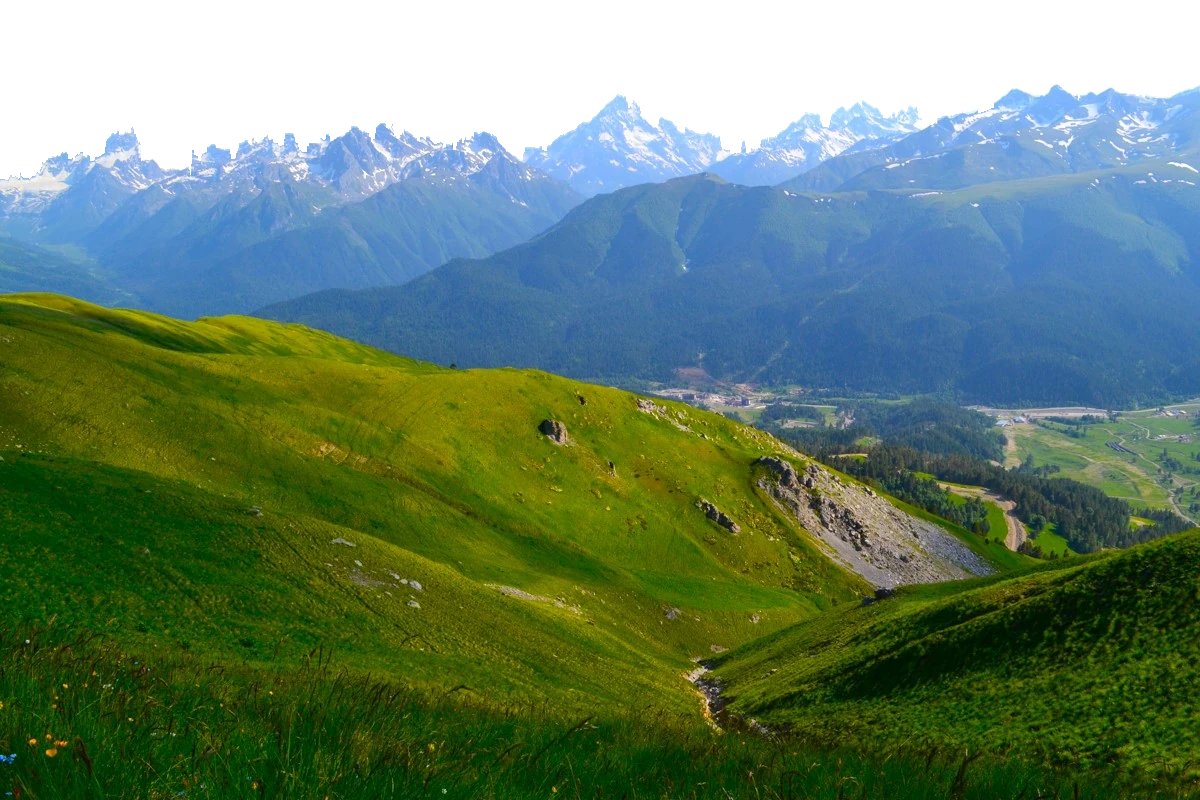
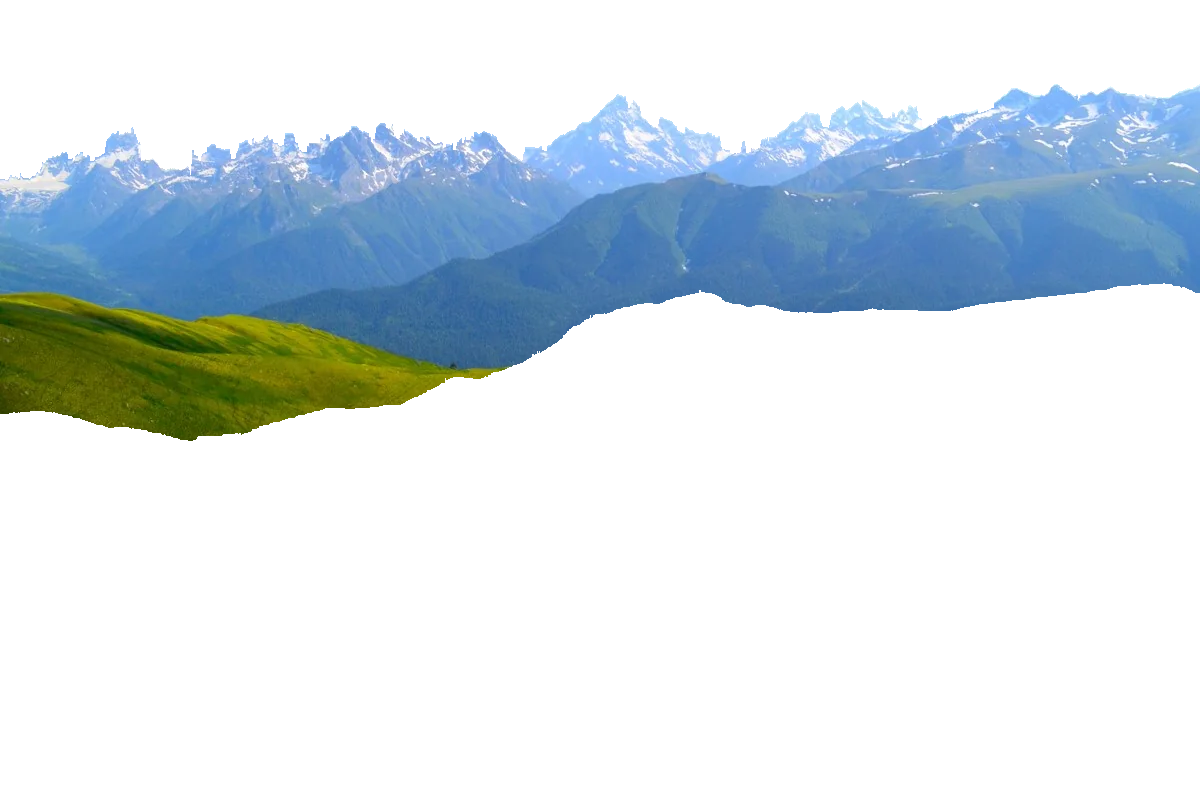
Keep the summer peaks whole through the parallax
The far plate carried the whole scene, so it could only ever sink, and by the
end of the block the ridge in front had swallowed the peaks - leaving torn
white shards. Cut the far plate back to peaks and sky along the middle plane's
silhouette, and let the two distant planes travel almost together so the peaks
never dive behind the ridge. The block now fades into the page instead of
ending on a hard white band.

diff --git a/app/globals.css b/app/globals.css
@@ -419,12 +419,12 @@ body{background:#f8f8f6}
 .ridge-mid,.ridge-near{background-size:100% auto;opacity:0}
 .season-summer .about-parallax-layers>div{left:-6%;width:112%;height:auto;aspect-ratio:3/2;background-size:100% 100%;background-position:center bottom}
 /* Дальние планы стоят ниже ровно на свой размах, поэтому выше исходного места не поднимаются. */
-.season-summer .about-parallax{--shift-far:-95;--shift-mid:-48;--shift-near:0}
-.season-summer .ridge-far{bottom:-95px;background-image:url('/arkhyz-summer-far.webp')}
-.season-summer .ridge-mid{bottom:-48px;background-image:url('/arkhyz-summer-mid.webp');opacity:1}
+.season-summer .about-parallax{--shift-far:-70;--shift-mid:-55;--shift-near:0}
+.season-summer .ridge-far{bottom:-70px;background-image:url('/arkhyz-summer-far.webp')}
+.season-summer .ridge-mid{bottom:-55px;background-image:url('/arkhyz-summer-mid.webp');opacity:1}
 .season-summer .ridge-near{bottom:0;background-image:url('/arkhyz-summer-near.webp');opacity:1}
 /* The cutout's own bottom crop is ragged: this band hides it and hands over to the next section's colour. */
-.about-parallax:after{content:"";position:absolute;left:0;right:0;bottom:0;height:120px;z-index:2;background:#f8f8f6}
+.about-parallax:after{content:"";position:absolute;left:0;right:0;bottom:0;height:150px;z-index:2;background:linear-gradient(180deg,rgba(248,248,246,0) 0%,rgba(248,248,246,.85) 55%,#f8f8f6 100%)}
 @media(prefers-reduced-motion:reduce){.about-parallax-layers>div,.about-text{transform:none!important}}
 
 .about-text{display:grid;grid-template-columns:minmax(0,1fr);gap:48px;align-items:center;will-change:transform}
@@ -533,7 +533,7 @@ body{background:#f8f8f6}
 .season-winter .ridge-far{bottom:-95px;background-image:url('/sophia-winter-far.webp')}
 .season-winter .ridge-mid{bottom:-48px;background-image:url('/sophia-winter-mid.webp');opacity:1}
 .season-winter .ridge-near{bottom:0;background-image:url('/sophia-winter-near.webp');opacity:1}
-.season-winter .about-parallax:after{background:#f8f8f6}
+.season-winter .about-parallax:after{background:linear-gradient(180deg,rgba(248,248,246,0) 0%,rgba(248,248,246,.85) 55%,#f8f8f6 100%)}
 
 /* Fixed header: keep it solid once it leaves the hero, and stop anchors hiding under it. */
 .hero .nav.scrolled{background:rgba(11,33,64,.93);box-shadow:0 12px 34px rgba(3,12,25,.24)}

diff --git a/components/ui/doville-hero.tsx b/components/ui/doville-hero.tsx
@@ -1,5 +1,6 @@
 "use client";
 
+import Link from "next/link";
 import { useEffect, useRef, useState } from "react";
 import { BookingBar } from "./booking-bar";
 import { SiteHeader } from "./site-header";
@@ -45,8 +46,10 @@ export function DovilleHero() {
     if (!node) return;
     if (window.matchMedia("(prefers-reduced-motion: reduce)").matches) {
       node.pause();
-      setPaused(true);
-      return;
+      node.dataset.userPaused = "1";
+      // Состояние меняем на следующем кадре: правка прямо в эффекте вызывает лишний проход отрисовки.
+      const frame = requestAnimationFrame(() => setPaused(true));
+      return () => cancelAnimationFrame(frame);
     }
     const observer = new IntersectionObserver((entries) => {
       entries.forEach((entry) => {
@@ -76,7 +79,7 @@ export function DovilleHero() {
 
     <div className="dv-hero-head shell">
       <nav className="dv-crumbs" aria-label="Хлебные крошки">
-        <a href="/#top">Alean Collection</a><span aria-hidden="true">·</span>
+        <Link href="/#top">Alean Collection</Link><span aria-hidden="true">·</span>
         <a href="https://aleancollection.ru/hotels/" target="_blank" rel="noreferrer">Отели</a><span aria-hidden="true">·</span>
         <span>Alean Family Doville</span>
       </nav>
